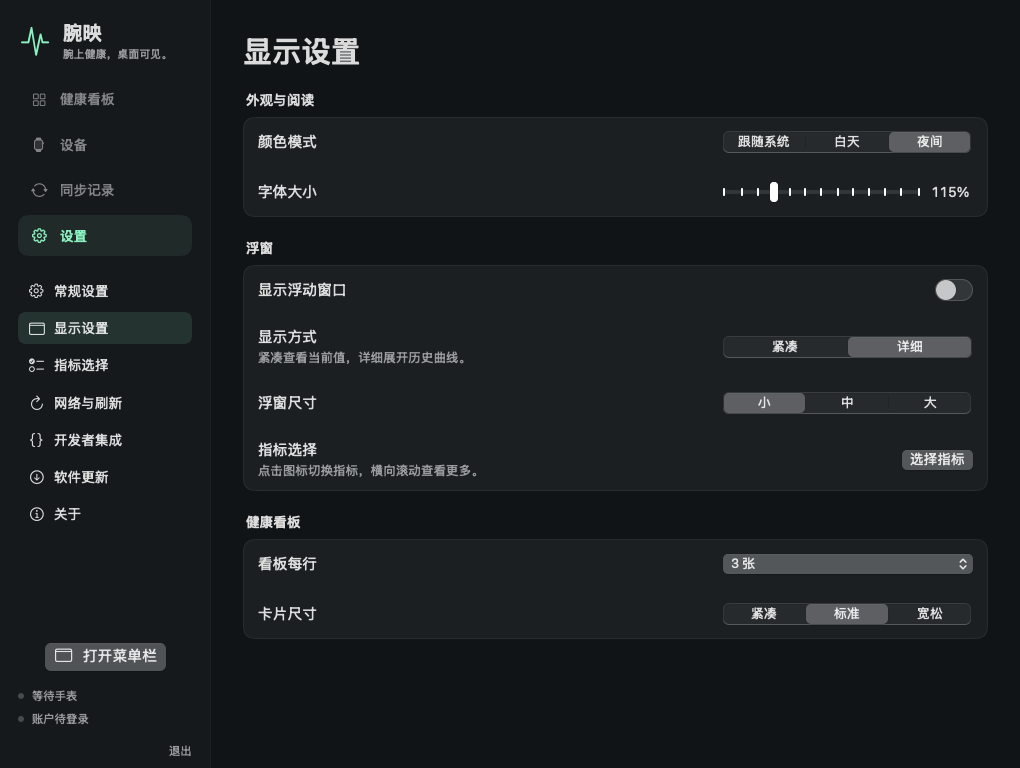
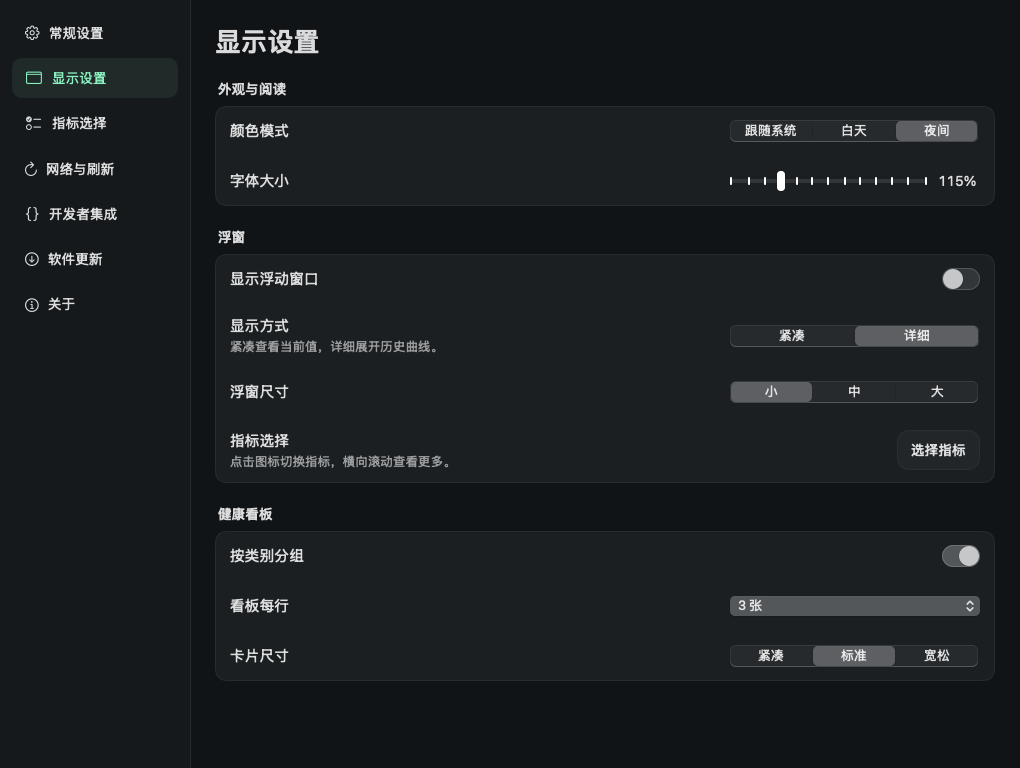
docs: refresh multilingual guides and native product screenshots

diff --git a/docs/SHOWCASE.md b/docs/SHOWCASE.md
@@ -1,46 +1,37 @@
 # Product showcase
 
-Native views and showcase composites are generated in GitHub Actions. The macOS 15 Apple Silicon job uploads `showcase-macos15`; download that artifact to refresh the README images without a local build. The renderer covers 52 combinations, including device status, HRV and the menu popover. Only synthetic preview data enters these artifacts.
+The five READMEs use native WristBeam views with isolated synthetic data. Chinese documentation uses Chinese captures and captions; English, Japanese, Korean and Russian documentation use the English image set. No personal accounts, health records, device identifiers or activity locations enter these assets.
 
-The README uses actual native app views with isolated **WristBeam Demo** data. Its values are simulated, its preferences/storage are separate, and Bluetooth, saved account recovery and uploading are disabled. No user's health data, account identifiers, device IDs or activity locations appear in these assets.
+## 0.3.10 documentation refresh
 
-| Image | What it shows |
-| --- | --- |
-| [Hero](images/showcase-hero.png) | Native dashboard, status item and expanded menu panel |
-| [Menu](images/showcase-menu.png) | Actual icon-only menu readings and the click-to-open panel |
-| [Themes](images/showcase-themes.png) | Native light and dark dashboard captures |
-| [Settings](images/showcase-settings.png) | Grouped three-surface selection matrix |
+The current hero, menu, themes, settings and floating-panel images come from the UI changes in [PR #20](https://github.com/kongdayan/wristbeam/pull/20), application commit `2d2296fdd2960324b0acd4847613f7c3b722a4f3`. They were rendered in [GitHub Actions run 39894382413](https://github.com/kongdayan/wristbeam/actions/runs/39894382413) and copied unchanged from its `showcase-macos15` artifact. The release preparation updates version metadata separately; these images show the UI shipping in 0.3.10.
 
-The Chinese README uses a separate Chinese set: [hero](images/showcase-hero-zh.png), [menu](images/showcase-menu-zh.png), [themes](images/showcase-themes-zh.png), and [settings](images/showcase-settings-zh.png). Both captions and captured app views are Chinese; the English set remains English. Chinese native captures are [dashboard](images/raw-dashboard-zh.png), [light](images/dashboard-light-zh.png), [dark](images/dashboard-dark-zh.png), [settings](images/display-settings-zh.png), and [menu panel](images/raw-menu-popup-zh.png).
+| Image | What it shows | Chinese version |
+| --- | --- | --- |
+| [Hero](images/showcase-hero.png) | Dashboard, icon-only status item and menu panel | [中文](images/showcase-hero-zh.png) |
+| [Menu](images/showcase-menu.png) | Menu readings and click-to-open panel | [中文](images/showcase-menu-zh.png) |
+| [Themes](images/showcase-themes.png) | Light and dark dashboard | [中文](images/showcase-themes-zh.png) |
+| [Settings](images/showcase-settings.png) | Separate preferences window, appearance, text size and layout | [中文](images/showcase-settings-zh.png) |
+| [Floating panels](images/showcase-floating.png) | Compact readings and Detailed trends | [中文](images/showcase-floating-zh.png) |
 
-## Build 10 refresh
+Raw dashboard, menu, floating and display-settings captures in `docs/images/` are refreshed from the same artifact. The icon-only [status item](images/raw-menu-bar.png) remains the earlier computer-use capture; that component was not changed by this UI update. The [sharing examples](images/share-cards-en.png) and [Chinese sharing example](images/share-cards-zh.png) retain their existing synthetic exports.
 
-The dashboard, themes, settings and new [Compact / Detailed floating showcase](images/showcase-floating.png) now use build 10 production views. The [Chinese version](images/showcase-floating-zh.png) includes Chinese captions and controls; all other README languages use English assets.
+## How the images are made
 
-`scripts/test-interface-render.py` constructs the actual `AppModel` in isolated preview mode and renders the real SwiftUI views through `NSHostingView.cacheDisplay`, including native controls. It exercises 52 combinations of language, theme, floating density and font size. These are programmatic native-view renders, **not evidence of click testing**. Live computer-use verification remains separately recorded in VERIFICATION.md.
+`scripts/test-interface-render.py` constructs the real `AppModel` in isolated preview mode, disables Bluetooth/account recovery/uploads and asserts zero cloud requests. It renders production SwiftUI views through `NSHostingView.cacheDisplay`. The current suite exports 152 PNGs covering Chinese/English, light/dark, Compact/Detailed panels, device battery, HRV, activities, expanded sections, narrow windows and 100%/160% text samples.
 
-`scripts/render-floating-showcase.swift` places those unchanged PNGs on an original gradient with frames and shadows. It refreshes the hero, menu, themes, settings and floating composites. The menu status item capture remains from the earlier computer-use session. The expanded menu uses the current production view rendered in Actions, including the device battery badge. The HTML viewer below is retained for interactive capture, but the latest composites are generated by the Swift renderer.
+The same CI harness separately exercises native mouse events for disclosure headers and metric selection, plus list/detail scroll restoration. A screenshot alone does not prove interaction behavior. Local installed-client computer-use checks remain subject to tool availability; see [verification scope](../VERIFICATION.md).
 
-The settings layout and Compact / Detailed presentation were inspired by [Pulse](https://github.com/qunqin24/Pulse); WristBeam's implementation, icons and artwork are independently authored. No Pulse source or artwork is bundled.
+`scripts/render-floating-showcase.swift` arranges unchanged native captures on an original gradient, adding frames and shadows. CI renders the composites; maintainers download the artifact instead of building local demo apps. The earlier [English](showcase/index.html) and [Chinese](showcase/index.zh-CN.html) HTML layouts remain available as historical artwork sources, but the current README composites use the Swift renderer.
 
-## Capture method
+The settings layout and Compact/Detailed presentation were inspired by [Pulse](https://github.com/qunqin24/Pulse). WristBeam's implementation, icons and artwork are independently authored; no Pulse source or artwork is bundled. The human-battery and footprint glyphs are drawn in [MetricIcon.swift](../Sources/GarminBar/UI/MetricIcon.swift); other glyphs use macOS SF Symbols. Body Battery keeps its full name in panels and accessibility descriptions.
 
-Computer-use opens and operates the native demo app. The native computer-use screenshot service returned oversized Retina extents on this Mac. To keep the real UI intact, computer-use invokes the Demo's Save demo screenshot command (⌘S), which exports only its own actual AppKit hosting view at 3× resolution. Native view captures are [raw-dashboard-en.png](images/raw-dashboard-en.png), [dashboard-light.png](images/dashboard-light.png), [dashboard-dark.png](images/dashboard-dark.png) and [display-settings.png](images/display-settings.png).
+## Refresh checklist
 
-Clicking **Open menu bar** opens the real `NSPopover`. Only in Demo mode, the app exports its actual `NSStatusItem` button and hosting view at 3× resolution using AppKit view rendering: [raw-menu-bar.png](images/raw-menu-bar.png), [raw-menu-popup.png](images/raw-menu-popup.png). This avoids global desktop capture and the focus change that closes transient popovers in the computer-use tool. These are actual native components, not generated interface illustrations.
+1. Run CI for the intended UI revision; download `showcase-macos15` and `native-interface-macos15`.
+2. Inspect both language sets, including long pages, large text, menu and floating panels.
+3. Copy the intended PNGs into `docs/images/`; preserve captures without painting over controls or values.
+4. Update the source commit/run above and all five README descriptions; check image links and language selection.
+5. Keep the app icon, original status-item capture and unchanged sharing exports unless those components need a new capture.
 
-The human-battery and footprint glyphs are original code-drawn vectors in [MetricIcon.swift](../Sources/GarminBar/UI/MetricIcon.swift). Other glyphs use macOS SF Symbols. Body Battery keeps its full name in panels and accessibility descriptions; no BB abbreviation is used.
-
-[HTML/CSS artwork](showcase/index.html) places the unmodified native PNGs on a background with rounded frames and shadows. [The local WKWebView viewer](../scripts/showcase-viewer.swift) renders four scenes; keys 1–4 switch scenes. Computer-use operates the resulting viewer and its “Save showcase image” command. The viewer exports its actual WKWebView rectangle through WebKit snapshot rendering, avoiding an incorrect Retina window extent in the native computer-use screenshot service. No AI-generated controls, values or fake product UI are added. Rounded shells and shadows are decorative layout around unchanged captures.
-
-[The Chinese layout](showcase/index.zh-CN.html) uses the same 1280 × 860 canvas. In the viewer, ⌘Z selects Chinese and ⌘E selects English; ⌘S exports the selected scene with a language-specific filename. Native display scale determines PNG pixel dimensions; the Chinese set was captured at 2560 × 1720. The first-use capture comes from a separately stored onboarding Demo with Bluetooth, account restoration and uploading disabled.
-
-## Background brief
-
-The original background brief used the former working name Garmin Pulse; the name is updated here for readability. No brand or product text is rendered into the backdrop.
-
-Only [the abstract backdrop](images/showcase-background.png) was generated with the built-in image generation tool. It was not used to edit the app screenshots.
-
-> Use case: ads-marketing. Background plate for premium independent macOS WristBeam product showcase. Generate only abstract backdrop, no device/interface/text/logos. Wide 16:9, quiet pearl/off-white center, subtle translucent mint-green and warm amber outer halos, frosted glass and very subtle film grain, restrained light, clean negative space for real screenshots. Avoid busy patterns, diagrams, simulated UI, hard borders, stock photos, neon and watermarks.
-
-The background is reused consistently across four native HTML/CSS scenes. The [app icon](images/app-icon.png) comes from the project's own vector drawing script. Project-authored artwork follows [the MIT license](../LICENSE); Garmin and platform marks remain their owners' marks.
+Only the historical [abstract backdrop](images/showcase-background.png) was made with image generation; product screenshots were not generated or retouched. The [app icon](images/app-icon.png) comes from the project's own vector drawing script. Project-authored artwork follows the [MIT license](../LICENSE).

diff --git a/README.ru.md b/README.ru.md
@@ -21,6 +21,7 @@
 - **Дайте телефону выходной.** Передавайте файлы тренировок и здоровья с поддерживаемых часов Garmin через Mac в Garmin Connect China или Global.
 - **Ваш заряд — в строке меню.** Пульс, Body Battery, стресс, шаги и другие показатели доступны в строке меню, плавающей панели и на графиках за день.
 - **Пусть ИИ узнает, как вы себя чувствуете.** Подключите синхронизированные показатели к ИИ-ассистенту через MCP и спросите: «Как я спал прошлой ночью?» Для собственных инструментов есть HTTP/HTTPS API, Python SDK и вебхуки.
+- **Меняйте циферблат с Mac.** Ищите циферблаты Connect IQ по имени или ключевому слову, сохраняйте официальные пакеты и устанавливайте их по Bluetooth. Редактируйте поддерживаемые настройки с повторным чтением после сохранения.
 
 Ваш ИИ уже считает токены. Теперь он может поинтересоваться и вашим запасом сил.
 
@@ -29,6 +30,8 @@
 ![WristBeam](docs/images/showcase-hero.png)
 
 [Скачать](https://github.com/kongdayan/wristbeam/releases/latest) · [Ошибки и отчёты об устройствах](https://github.com/kongdayan/wristbeam/issues) · [Участие](CONTRIBUTING.md) · [Изменения](CHANGELOG.md)
+
+**Новое в 0.3.10:** более удобные кнопки, раскрытие разделов нажатием на всю строку, улучшенная компоновка с крупным текстом и страницы без видимых полос прокрутки. [Изменения](CHANGELOG.md#0310--2026-10-23).
 
 ## Интерфейс
 
@@ -44,6 +47,9 @@
 
 ## Возможности
 
+- **Настройки в отдельном окне.** Внешний вид, выбор показателей, обновление данных, интеграции и обновления приложения собраны по разделам. Заголовки реагируют на нажатие по всей строке; обычная прокрутка работает без видимых полос.
+- **Облако по желанию.** Получайте данные часов без аккаунта и отключайте все обращения к облаку Garmin. Экспортируйте локальные FIT＋CSV или загрузите файлы в облако позже. [Локальный режим](docs/SETUP.md).
+- **Тренировки для вас и вашего AI.** Открывайте статистику и графики из списка занятий, экспортируйте JSON／TCX／GPX／исходные файлы и запрашивайте сохранённые тренировки через MCP. Доступно обновление сводок по расписанию. [API](docs/developer/API.md#activity-library).
 - Компактные объёмные карточки с временем обновления рядом с заголовком. Настройка сетки и основных показателей в одной панели; вся панель, выбранные карточки или одно значение экспортируются в светлом или тёмном оформлении для копирования, сохранения и системного обмена.
 - Независимый выбор показателей для строки меню, панели и дашборда; группы, поиск, перетаскивание, размер текста и расположение.
 - Суточные кривые, интервальные столбцы, выбор даты и времени, значения под курсором и исходные записи. Пропуски остаются пустыми.
@@ -77,6 +83,7 @@
 | Батарея часов | Garmin Bluetooth | Значок и процент заряда рядом с состоянием устройства; уведомления и периодическое обновление |
 | Калории, этажи, минуты интенсивности | Поля часов／облака | Итоги дня, некоторые интервалы |
 | Пульс в покое, длительность сна, сводки восстановления | Суточная облачная сводка | Итоги и связанные графики |
+| Погода на часах | Open-Meteo или облачный аккаунт устройства | Текущая погода, почасовой и дневной прогноз передаются на часы. [Настройка](docs/developer/WEATHER.md) |
 | Солнечная интенсивность | Достоверные поминутные записи облака | Кривая от 0 до 24 часов |
 | Длительность освещения／солнечной зарядки | Оценка по достоверным минутам | Явно обозначенная оценка |
 | FIT активности и здоровья | Исходные файлы часов | Хранение на Mac, отправка в облако |
@@ -90,6 +97,8 @@
 | Apple Silicon | [arm64](https://github.com/kongdayan/wristbeam/releases/latest/download/WristBeam-macOS-arm64.zip) |
 | Intel | [x86_64](https://github.com/kongdayan/wristbeam/releases/latest/download/WristBeam-macOS-x86_64.zip) |
 | Обе архитектуры | [Universal](https://github.com/kongdayan/wristbeam/releases/latest/download/WristBeam-macOS-universal.zip) |
+
+Если приложение уже установлено: **Settings → Software updates → Check for updates**. Облачный аккаунт необязателен; для локального использования вход не нужен.
 
 Нужна macOS 13+. Распакуйте приложение и перенесите в доступную для записи папку Applications. В разделе «Устройства → Подключение» подготовьте часы с отключённой трансляцией пульса, затем нажмите кнопку подключения и разрешите Bluetooth. Выберите China／Global в аккаунте устройства, войдите на официальной странице Garmin и выберите ручную или автоматическую загрузку в истории синхронизации. Автоподключение при запуске выключено по умолчанию; его можно включить после сопряжения.
 

diff --git a/docs/SETUP.md b/docs/SETUP.md
@@ -5,9 +5,9 @@
 1. 打开应用，进入 **设备 → 连接**。打开软件和浏览设备页都不会申请蓝牙或扫描手表。
 2. 首次配对：手表长按 MENU → 手机 → 配对手机，关闭心率广播；手机占用连接时，暂时关闭手机蓝牙。点击 **允许蓝牙并查找手表**，在 macOS 提示中允许访问，再选择手表、核对配对码。已保存的手表可直接点击 **连接已配对手表**，无需每次忘记或重新配对。
 3. 允许蓝牙后，分别检查蓝牙连接、佳明数据通道、实时读数和文件通道。单独显示“已连接”不能证明原始文件同步已经就绪。没有数据时展开 **连接不上 / 没有数据**。
-4. 到 **设备账号** 选择手表绑定的中国或国际账户区域，在佳明官方页面登录。同一区域、同一账户才能核对文件归属；关联设备应与你的手表一致。
+4. 云账号可选。仅本地使用无需登录；需要云端记录或上传时，到 **设备 → 设备账号** 开启云同步，选择中国或国际区域，再在佳明官方页面登录。账户应与你的手表绑定账户一致。
 5. 到 **同步记录** 选择手动或自动上传。实时读数留在本机，云端接收手表生成的原始运动与健康 FIT。新用户默认手动同步；旧版已保存的选择以及已配对用户原先的自动同步默认值保留。
-6. 在 **显示设置** 分别选健康看板、浮窗和菜单栏的指标，调整字体、日夜主题和刷新。新用户默认不弹出空浮窗，按需开启。
+6. 打开独立 **设置** 窗口：在 **显示设置** 调整字体、主题和布局，在 **指标选择** 分别配置看板、浮窗和菜单栏，在 **网络与刷新** 调整刷新频率。新用户默认不弹出空浮窗，按需开启。折叠区的标题整行都可点击；长页面隐藏滚动条，仍支持正常滚动。
 
 **拒绝蓝牙**：在系统设置 → 隐私与安全性 → 蓝牙允许 WristBeam，再回到连接页。受到系统策略限制时需由设备管理员处理；设备账号与 FIT 导入仍可使用。临时签名的新构建可能需要重新允许访问，应用只在主动连接时请求。
 
@@ -33,7 +33,7 @@ In **Sync records**, **Automatically receive watch files** downloads original FI
 
 Cloud backfill uses original watch-generated FIT files, not synthesized FIT made from live readings. CSV is for personal use and analysis; it cannot recreate Garmin's historical cloud-only records. Folder monitoring applies only to the selected directory and can be stopped here.
 
-Connecting at launch is a separate opt-in and requires previously granted access plus a saved watch. Reconnection restores only a connection you started; manual disconnect stops retries. Closing the window keeps the menu bar app running, while quitting or Mac sleep pauses immediate syncing. Configure the floating panel, display metrics, type size, themes and refresh in **Display settings**.
+Connecting at launch is a separate opt-in and requires previously granted access plus a saved watch. Reconnection restores only a connection you started; manual disconnect stops retries. Closing the window keeps the menu bar app running, while quitting or Mac sleep pauses immediate syncing. Open the separate **Settings** window: use **Display settings** for panels, text size, themes and layout; **Metric selection** for dashboard/panel/menu metrics; and **Network and refresh** for refresh intervals. Click anywhere on a section header to expand it. Long pages scroll normally with their indicators hidden.
 
 If Bluetooth is denied, enable WristBeam in System Settings → Privacy & Security → Bluetooth and retry. A system restriction needs the administrator's help. An ad hoc build may need renewed system authorization after an update. Updates ask for confirmation before download and wait for active transfers to finish.
 

diff --git a/README.md b/README.md
@@ -31,6 +31,8 @@ Your AI can already count tokens. Now it can ask how *you're* doing.
 
 [Download](https://github.com/kongdayan/wristbeam/releases/latest) · [Issues & device reports](https://github.com/kongdayan/wristbeam/issues) · [Contribute](CONTRIBUTING.md) · [Changelog](CHANGELOG.md)
 
+**New in 0.3.10:** larger click targets, full-row expandable sections, better large-text layouts and clean, scrollbar-free pages. [Release notes](CHANGELOG.md#0310--2026-10-23).
+
 ## A closer look
 
 ![Menu bar and click-to-open panel](docs/images/showcase-menu.png)
@@ -45,6 +47,7 @@ Real app UI with isolated demo data. [Original captures and artwork notes](docs/
 
 ## Features
 
+- **Settings that stay out of the way.** A separate preferences window groups appearance, metric selection, refresh, developer integrations and updates. Click an entire section header to expand it; scroll normally without visible scrollbars.
 - **Keep it on your Mac.** Watch data works without a cloud account. Pause all Garmin cloud access, keep local files, then export FIT + CSV or upload later. [Local mode](docs/SETUP.md).
 - **Let your AI remember your workouts.** Browse the Activities sidebar, open a workout to load its statistics and charts, export JSON / TCX / GPX / original files, and query cached workouts over MCP. Optional scheduled summary refresh. [Activity API](docs/developer/API.md#activity-library).
 - Compact dimensional cards with timestamps beside the title. Customize layout and essentials in one panel; share the dashboard, selected cards or a single value as a framed image in light or dark, with copy, save and native sharing.
@@ -96,6 +99,8 @@ The catalog has **60 health metrics and one device-status field**. Only metrics 
 | Apple Silicon | [arm64](https://github.com/kongdayan/wristbeam/releases/latest/download/WristBeam-macOS-arm64.zip) |
 | Intel | [x86_64](https://github.com/kongdayan/wristbeam/releases/latest/download/WristBeam-macOS-x86_64.zip) |
 | Either architecture | [Universal](https://github.com/kongdayan/wristbeam/releases/latest/download/WristBeam-macOS-universal.zip) |
+
+Existing users: **Settings → Software updates → Check for updates**. Cloud login is optional; connect an account only when you want Garmin cloud access.
 
 Requires macOS 13+. Extract and move the app to a writable Applications folder. Open Devices → Connection, prepare the watch with heart-rate broadcast off, then click a connection button to allow Bluetooth. Choose China/Global in Device account and sign in on Garmin's official page; choose manual or automatic uploads in Sync records. Connecting at launch is off by default and can be enabled after pairing.
 

diff --git a/README.cn.md b/README.cn.md
@@ -32,6 +32,8 @@ Mac 有电量条，人也该有。
 
 [下载](https://github.com/kongdayan/wristbeam/releases/latest) · [反馈与设备支持](https://github.com/kongdayan/wristbeam/issues) · [参与贡献](CONTRIBUTING.md) · [版本记录](CHANGELOG.md)
 
+**0.3.10 更新：**按钮更好点，折叠标题整行可展开，大字号布局更舒适，页面统一隐藏滚动条。[版本说明](CHANGELOG.md#0310--2026-10-23)。
+
 ## 展示
 
 ![菜单栏与点击后的弹窗](docs/images/showcase-menu-zh.png)
@@ -46,6 +48,7 @@ Mac 有电量条，人也该有。
 
 ## 功能
 
+- **设置集中，操作省心。** 独立设置窗口按外观、指标选择、刷新、开发者集成和软件更新分组；点击折叠标题整行即可展开，长页面保留正常滚动。
 - 在菜单栏、浮窗和看板独立选择指标，整组选取、搜索、拖动排序，调整字体与布局。
 - **云不是必选项。** 无需云账号也能接收手表数据；可停止全部佳明云访问，在本机暂存，随时导出 FIT + CSV 或以后补传。[本地模式](docs/SETUP.md)。
 - **让 AI 知道你最近练了什么。** 在独立运动记录页浏览云端历史，打开即加载统计和图表，支持导出 JSON、TCX／GPX／原始文件，通过 MCP 查询本地运动库；可设置摘要自动刷新频率。[运动接口](docs/developer/API.md#activity-library)。
@@ -98,6 +101,8 @@ Mac 有电量条，人也该有。
 | Apple Silicon | [arm64](https://github.com/kongdayan/wristbeam/releases/latest/download/WristBeam-macOS-arm64.zip) |
 | Intel | [x86_64](https://github.com/kongdayan/wristbeam/releases/latest/download/WristBeam-macOS-x86_64.zip) |
 | 两种架构 | [Universal](https://github.com/kongdayan/wristbeam/releases/latest/download/WristBeam-macOS-universal.zip) |
+
+已安装用户：**设置 → 软件更新 → 检查更新**。云账号是可选项；仅本地使用时，无需登录佳明。
 
 要求 macOS 13+。解压，将应用放入可写的 Applications 文件夹。打开“设备 → 连接”，按引导准备手表，点击连接按钮后允许蓝牙访问；保持心率广播关闭。到“设备账号”选择中国／国际区域，在佳明官方页面登录，再到“同步记录”选择手动或自动同步。启动自动连接默认关闭，可在首次配对后主动开启。
 

diff --git a/CHANGELOG.md b/CHANGELOG.md
@@ -7,6 +7,7 @@
 - Keep preference controls aligned beside wrapping descriptions and adapt developer actions to narrow windows and larger text. Simplify expanded connection and sync settings.
 - Hide scroll indicators across pages, preferences, menu popovers, sharing, Connect IQ, raw metric tables and embedded web pages while preserving scrolling and saved positions.
 - Validate native disclosure/selection click targets and scrolling, and include native before/after screenshots in the UI review.
+- Refresh all five README translations, native showcase images and setup navigation; bring the Japanese, Korean and Russian feature lists up to date.
 - Update the pinned checkout and artifact-download GitHub Actions.
 
 ## 0.3.9 — 2026-10-21
